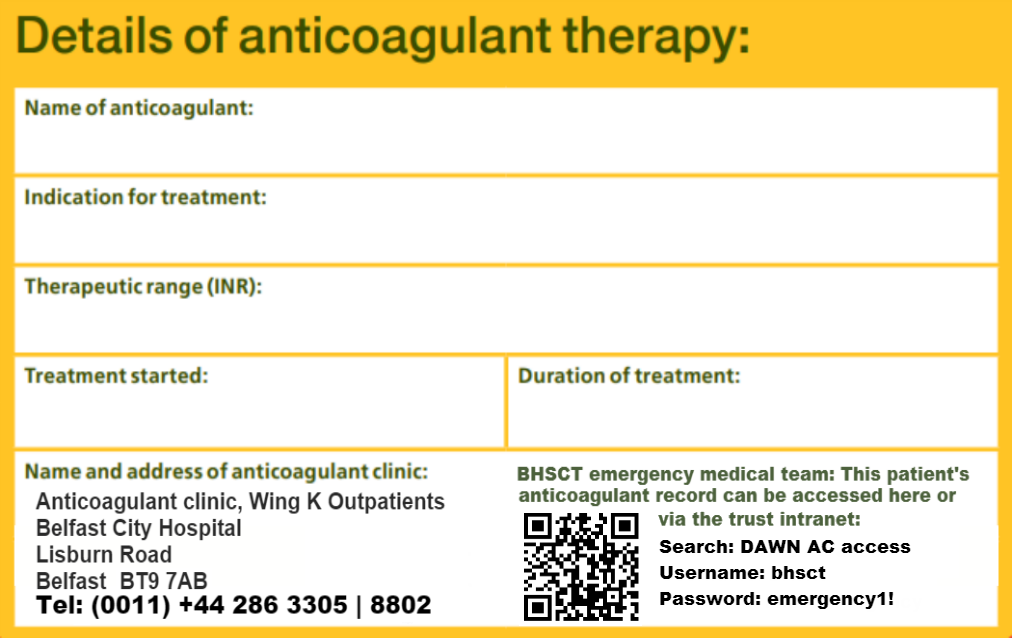
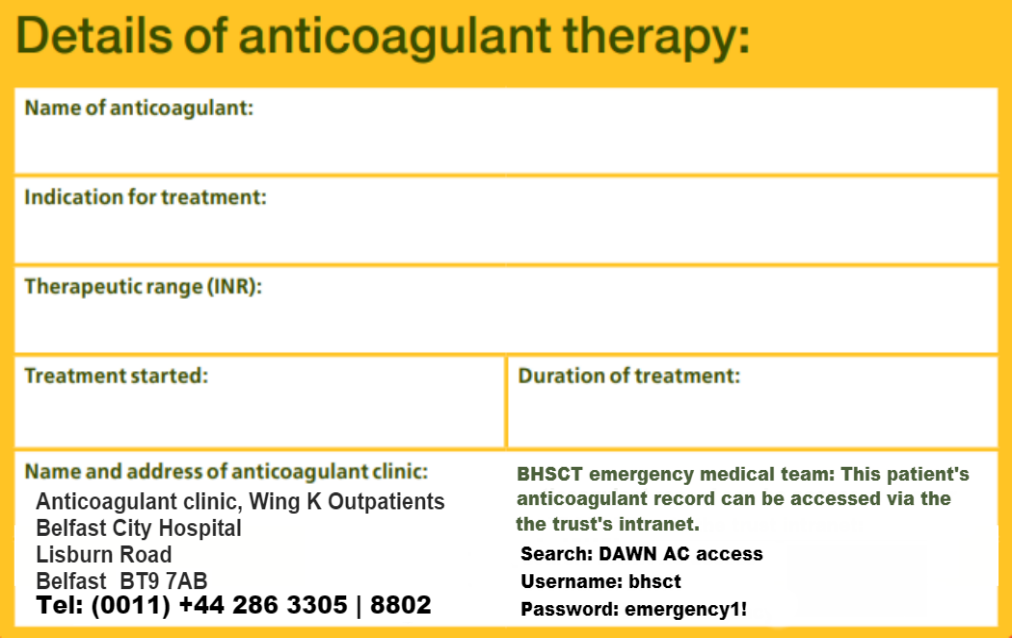
update

Changed region(s): [[0.4901, 0.7445, 0.9496, 0.9828]]

diff --git a/index.html b/index.html
@@ -26,11 +26,11 @@
   <div class="col-md-12" id="front">
     <text class="label" id="name" style="margin-top: 250px;"></text>
     <text id="dob"></text>
-    <text class="label" id="address1" style="margin-top: 305px;"></text>
+    <text class="label" id="address1" style="margin-top: 300px;"></text>
     <text class="label" id="address2" style="margin-top: 325px;"></text>
-    <text class="label" id="address3" style="margin-top: 345px;"></text>
-    <text class="label" id="address4" style="margin-top: 365px;"></text>
-    <text class="label" id="address5" style="margin-top: 385px;"></text>
+    <text class="label" id="address3" style="margin-top: 350px;"></text>
+    <text class="label" id="address4" style="margin-top: 375px;"></text>
+    <text class="label" id="address5" style="margin-top: 400px;"></text>
     <text class="label" id="nok" style="margin-top: 480px;"></text>
     <text class="label" id="tel" style="margin-top: 545px;"></text>
     <svg id="barcode"></svg>
@@ -74,12 +74,12 @@
 
 <div id="second">
   <div id="back">
-    <text class="warfarin" id="drugtext" style="margin-top: 75px;">WARFARIN</text>
+    <text class="warfarin" id="drugtext" style="margin-top: 85px;">WARFARIN</text>
     <text class="labelback" id="condition1text" style="margin-top: 175px;"></text>
-    <text class="labelback" id="condition2text" style="margin-top: 205px;"></text>
-    <text class="labelback" id="rangetext" style="margin-top: 265px;"></text>
-    <text class="labelback" id="starttext" style="margin-top: 360px;"></text>
-    <text class="duration" id="durationtext" style="margin-top: 360px;"></text>
+    <text class="labelback" id="condition2text" style="margin-top: 210px;"></text>
+    <text class="labelback" id="rangetext" style="margin-top: 280px;"></text>
+    <text class="labelback" id="starttext" style="margin-top: 385px;"></text>
+    <text class="duration" id="durationtext" style="margin-top: 385px;"></text>
   </div>
   <div id="form">
     <select class="backselect" name="drug" id="drug" tabindex="12">
@@ -94,7 +94,6 @@
       <option value="1st episode Pulmonary embolus">1st episode Pulmonary embolus</option>
       <option value="Recurrent DVT/PE ">Recurrent DVT/PE </option>
       <option value="Recurrent DVT/PE on warfarin">Recurrent DVT/PE on warfarin</option>
-      <option value="Tissue prosthetic valve in mitral position ">Tissue prosthetic valve in mitral position</option>
       <option value="Tissue prosthetic valve">Tissue prosthetic valve</option>
       <option value="Mechanical Prosthetic Valve">Mechanical Prosthetic Valve</option>
       <option value="Rheumatic mitral valve disease">Rheumatic mitral valve disease</option>
@@ -113,7 +112,6 @@
       <option value="1st episode Pulmonary embolus">1st episode Pulmonary embolus</option>
       <option value="Recurrent DVT/PE ">Recurrent DVT/PE </option>
       <option value="Recurrent DVT/PE on warfarin">Recurrent DVT/PE on warfarin</option>
-      <option value="Tissue prosthetic valve in mitral position ">Tissue prosthetic valve in mitral position</option>
       <option value="Tissue prosthetic valve">Tissue prosthetic valve</option>
       <option value="Mechanical Prosthetic Valve">Mechanical Prosthetic Valve</option>
       <option value="Rheumatic mitral valve disease">Rheumatic mitral valve disease</option>

diff --git a/style.css b/style.css
@@ -43,7 +43,7 @@
   position: absolute;
   color: rgb(28, 17, 7);
   font-family: sans-serif;
-  font-size: 2.5em;
+  font-size: 3em;
   margin-left: 280px;
 }
 
@@ -51,8 +51,8 @@
   position: absolute;
   color: rgb(28, 17, 7);
   font-family: sans-serif;
-  font-size: 2.5em;
-  margin-left: 800px;
+  font-size: 3em;
+  margin-left: 730px;
 }
 
 
@@ -60,22 +60,23 @@
 
 #dob {
   position: absolute;
-  font-size: 1.3em;
+  font-size: 2.5em;
+  font-weight: bold;
   transform: rotate(-90deg);
   margin-left: 840px;
-  margin-top: 350px;
+  margin-top: 335px;
 }
 
 #barcode {
   position: absolute;
-  margin-left: 660px;
-  margin-top: 505px;
+  margin-left: 558px;
+  margin-top: 490px;
 }
 
 #photo {
   position: absolute;
   margin-left: 660px;
-  margin-top: 230px;
+  margin-top: 220px;
 }
 
 #form {

diff --git a/script.js b/script.js
@@ -26,7 +26,7 @@ $("#photo_remove_button").click(function() {
 });
 $("#num").keyup(function() {
   JsBarcode("#barcode", document.getElementById('num').value, {
-    height: 70
+    height: 100, width: 4.5, fontOptions: "bold", fontSize: 35, textMargin: -7, margin: 0
   });
 });
 $("#namei").keyup(function() {
